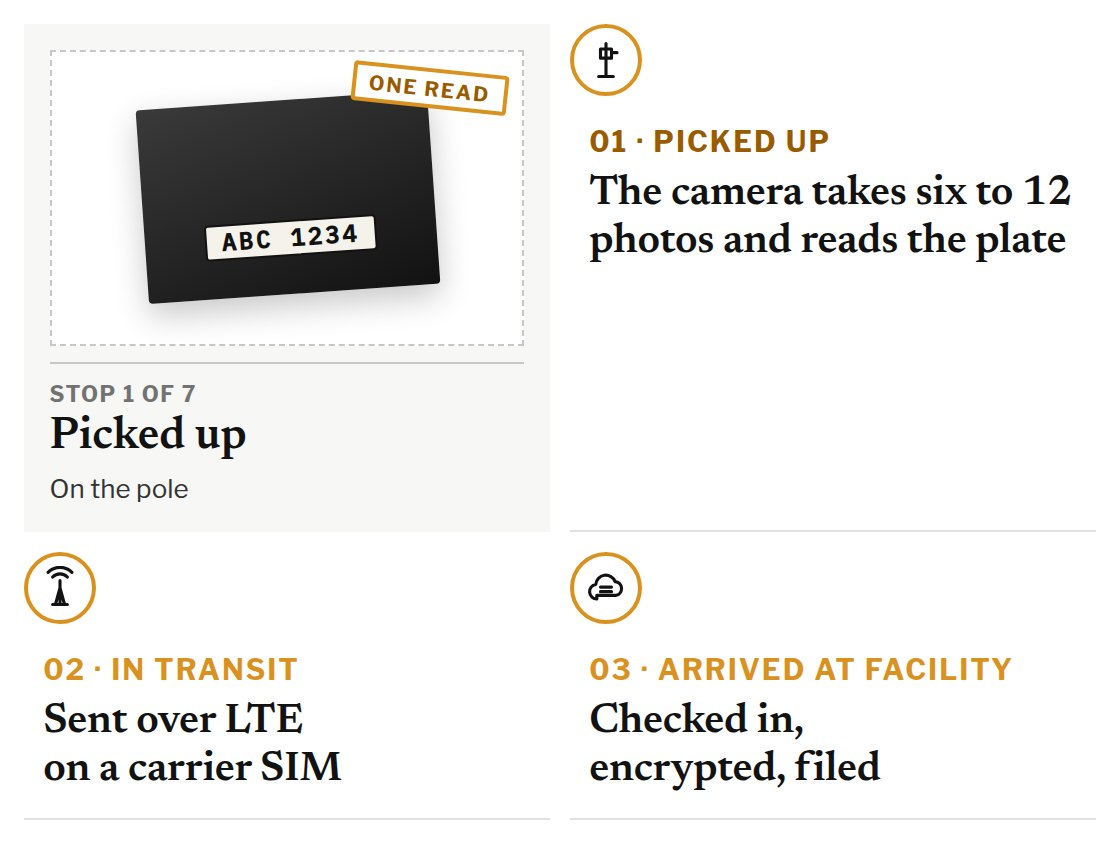
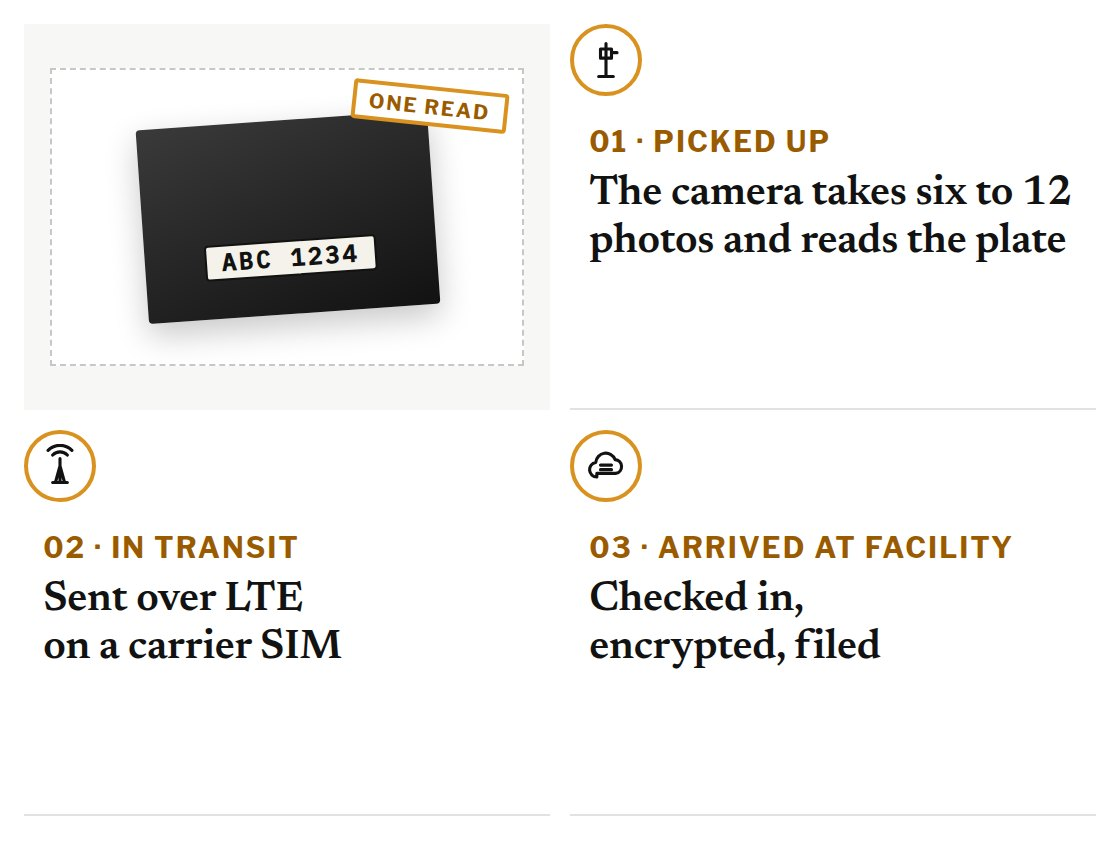
Story: third graphics review
Phone map sits wholly above the step cards: the map ends six-tenths of the way
down the screen, its legend sits just above the national map or in its own band
above a zoomed one, and nothing is drawn past the map's panel, on phones or on
desktop, where dots no longer run beside the credit. Zoomed on Georgia, the
other states turn grey and the state's label is boxed; Atlanta is a point with
its name to the side; city names fade out before Georgia's fades in; the legend
and the credit's population line change halfway through a transition. The hatch
key is grey and says why small counties are hatched; the credit counts the Flock
cameras outside the frame.

Phone journey teaser has its own image, four stops in large type; the desktop
teaser's parcel card no longer repeats stop 1. The completeness chart keeps
state names on phones and puts its counts on two lines where one would run past
the plot. Place names follow Times style (Houston, Dallas and Denver alone;
"Tex."), the floating Top button is left to wider screens, "Washington State",
"Home Depot" in running text, and the ruler's default reads "since Aug. 13".

Changed region(s): [[0.0, 0.247, 0.4688, 0.9264], [0.0312, 0.4941, 0.9688, 0.9881], [0.125, 0.0618, 0.4688, 0.1544]]

diff --git a/src/story/map.ts b/src/story/map.ts
@@ -31,12 +31,18 @@ export const RATE_COLORS = ["#dcab55", "#c4851a", "#9e6510", "#6f4508", "#3f2504
 /** Counties with fewer residents than this are hatched. */
 export const SMALL_POP = 10_000;
 const NONE = "#ecece9";
-/** Reserved at the top of the phone graphic for the legend, so the map below it never moves between steps */
-const PHONE_LEGEND = 84;
+/** Reserved at the top of the phone graphic for the legend on the zoomed steps, so it never sits on the map */
+const PHONE_LEGEND = 96;
+/** On phones the map ends this far up the screen (a share of its height), above where the step cards are read */
+const PHONE_MAP_BOTTOM = 0.6;
 interface Place { name: string; kind: string; xy: [number, number]; sub?: string }
 interface Labels { cities: { name: string; xy: [number, number] }[]; atlanta: { bbox: [number, number, number, number]; places: Place[]; roads: { name: string; xy: [number, number] }[] }; georgia: { bbox: [number, number, number, number]; xy: [number, number]; name: string; sub: string } }
 
 const INK = [18, 18, 18], AMBER = [196, 125, 14], GREY = [189, 189, 186], GREY_TOP = [128, 128, 125], GREY_STREET = [74, 74, 72];
+const rgbOf = (hex: string) => [1, 3, 5].map((i) => parseInt(hex.slice(i, i + 2), 16));
+/** The grey of the same lightness (Rec. 601 luma) */
+const grayOf = (hex: string) => { const [r, g, b] = rgbOf(hex); const v = Math.round(0.299 * r! + 0.587 * g! + 0.114 * b!).toString(16).padStart(2, "0"); return `#${v}${v}${v}`; };
+const mixHex = (a: string, b: string, t: number) => mix(rgbOf(a), rgbOf(b), t);
 const mix = (a: number[], b: number[], t: number) => `rgb(${a.map((v, i) => Math.round(v + (b[i]! - v) * t)).join(",")})`;
 const ease = (t: number) => (t < 0.5 ? 4 * t * t * t : 1 - (-2 * t + 2) ** 3 / 2);
 const clamp01 = (v: number) => Math.max(0, Math.min(1, v));
@@ -86,7 +92,7 @@ export function createMap(fig: HTMLElement, hooks: { busy(d: number): void; twee
   /** Alaska and Hawaii's insets, faded out once the view leaves the whole country */
   let insets: [number, number, number, number][] = [];
   /** county shading: one path per rate class; the small-population counties; county lines for the zoomed views */
-  let choro: { color: string; p: Path2D }[] | null = null, small: Path2D | null = null, countyLines: Path2D | null = null;
+  let choro: { color: string; gray: string; p: Path2D }[] | null = null, small: Path2D | null = null, countyLines: Path2D | null = null;
   let hatch: CanvasPattern | null = null, hatchDpr = 0;
   /** the top of Fulton County's outline, where its label's leader points */
   let fultonTip: [number, number] | null = null;
@@ -101,8 +107,8 @@ export function createMap(fig: HTMLElement, hooks: { busy(d: number): void; twee
   let creditH = 0;
   const area = () => {
     if (posterMode) return { x0: 24, y0: 24, x1: W - 24, y1: H - 24 };
-    // on phones the map sits in the upper four-fifths, so a card being read covers little of it
-    if (phone()) return { x0: 8, y0: PHONE_LEGEND, x1: W - 8, y1: Math.max(PHONE_LEGEND + 220, Math.min(H - creditH - 12, H * 0.8)) };
+    // on phones the map sits between the legend and the cards' reading zone, so a card being read covers none of it
+    if (phone()) return { x0: 8, y0: PHONE_LEGEND, x1: W - 8, y1: Math.max(PHONE_LEGEND + 220, H - (1 - PHONE_MAP_BOTTOM) * innerHeight) };
     const gutter = 20, left = Math.max(gutter, (W - 992) / 2) + Math.min(352, W - 2 * gutter) + 28;
     return { x0: Math.min(left, W * 0.42), y0: 76, x1: W - 24, y1: H - Math.max(24, creditH + 14) };
   };
@@ -138,13 +144,15 @@ export function createMap(fig: HTMLElement, hooks: { busy(d: number): void; twee
     const ox = (a.x0 + a.x1) / 2 - s.cx * k, oy = (a.y0 + a.y1) / 2 - s.cy * k;
     ctx.setTransform(1, 0, 0, 1, 0, 0);
     ctx.clearRect(0, 0, canvas.width, canvas.height);
-    // clip to the map's panel (a little wider on phones, where nothing sits beside it)
+    // clip to the map's panel, so nothing runs under the legend, the credit or the cards
     ctx.save();
-    ctx.beginPath(); ctx.rect(dpr * (a.x0 - (phone() ? 8 : 6)), dpr * (a.y0 - 30), dpr * (a.x1 - a.x0 + (phone() ? 16 : 30)), dpr * (a.y1 - a.y0 + 54)); ctx.clip();
+    ctx.beginPath(); ctx.rect(dpr * (a.x0 - 1), dpr * (a.y0 - 1), dpr * (a.x1 - a.x0 + 2), dpr * (a.y1 - a.y0 + 2)); ctx.clip();
     ctx.setTransform(dpr * k, 0, 0, dpr * k, dpr * ox, dpr * oy);
     if (choro && s.choro > 0.01) {
       ctx.globalAlpha = s.choro;
-      for (const c of choro) { ctx.fillStyle = c.color; ctx.fill(c.p); }
+      // zoomed on Georgia, the other states turn grey (same lightness), so only Georgia carries the colour key
+      for (const c of choro) { ctx.fillStyle = s.ga > 0.01 ? mixHex(c.color, c.gray, s.ga) : c.color; ctx.fill(c.p); }
+      if (georgia && s.ga > 0.01) { ctx.save(); ctx.clip(georgia); for (const c of choro) { ctx.fillStyle = c.color; ctx.fill(c.p); } ctx.restore(); }
       // zoomed in, thin white county lines keep neighbouring counties of one class apart
       const zoomed = clamp01((700 - s.w) / 400);
       if (countyLines && zoomed > 0) { ctx.globalAlpha = s.choro * zoomed; ctx.strokeStyle = "#ffffff"; ctx.lineWidth = 0.7 / k; ctx.stroke(countyLines); }
@@ -229,7 +237,8 @@ export function createMap(fig: HTMLElement, hooks: { busy(d: number): void; twee
     };
     for (const c of labels.cities) mk(c.name, "small", c.xy, "cities");
     // the county's name and counts go in a box above it, with a leader into the county
-    for (const p of labels.atlanta.places) mk(p.name, p.kind === "city" ? "city" : "area callout", p.xy, "atl", p.sub);
+    // Atlanta: a point at the city, the name to its left, clear of Fulton County's eastern line
+    for (const p of labels.atlanta.places) mk(p.name, p.kind === "city" ? "city pt-left" : "area callout", p.xy, "atl", p.sub);
     for (const r of labels.atlanta.roads) mk(r.name, "road", r.xy, "atl");
     mk(labels.georgia.name, "state", labels.georgia.xy, "ga", labels.georgia.sub);
   }
@@ -239,7 +248,8 @@ export function createMap(fig: HTMLElement, hooks: { busy(d: number): void; twee
     let lead = "";
     for (const l of labelEls) {
       let [x, y] = project(s, l.xy[0], l.xy[1]);
-      const o = l.group === "atl" ? atl * s.roads : l.group === "ga" ? s.ga : (1 - Math.max(atl, s.ga)) * (1 - s.choro * 0.35);
+      // the national names leave in the first part of a zoom; Georgia's name arrives in the last
+      const o = l.group === "atl" ? atl * s.roads : l.group === "ga" ? clamp01((s.ga - 0.6) / 0.4) : clamp01(1 - 2.5 * Math.max(atl, s.ga)) * (1 - s.choro * 0.35);
       if (l.callout && fultonTip) {
         // the box's bottom edge sits a little above the county's northern edge; the leader runs into the county
         const [tx, ty] = project(s, fultonTip[0], fultonTip[1]);
@@ -261,7 +271,7 @@ export function createMap(fig: HTMLElement, hooks: { busy(d: number): void; twee
   function setLegend(look: Look): void {
     if (look.choro) {
       const names = ["None", "Under 10", "10–25", "25–50", "50–100", "100+"];
-      legend.innerHTML = `<div class="legend-ramp"><span class="legend-t">Mapped Flock cameras per 100,000 residents</span><div class="ramp">${[NONE, ...RATE_COLORS].map((c, i) => `<span><i style="background:${c}"></i>${names[i]}</span>`).join("")}</div><span class="legend-hatch"><i style="background-color:${RATE_COLORS[2]}"></i>Hatched: fewer than ${SMALL_POP.toLocaleString("en-US")} residents</span></div>`;
+      legend.innerHTML = `<div class="legend-ramp"><span class="legend-t">Mapped Flock cameras per 100,000 residents</span><div class="ramp">${[NONE, ...RATE_COLORS].map((c, i) => `<span><i style="background:${c}"></i>${names[i]}</span>`).join("")}</div><span class="legend-hatch"><i></i>Hatched: fewer than ${SMALL_POP.toLocaleString("en-US")} residents, where a few cameras swing the rate</span></div>`;
     } else if (look.hi) {
       legend.innerHTML = `<div class="legend-key"><span><i style="background:rgb(${AMBER})"></i>Flock Safety</span><span><i style="background:rgb(${look.roads ? GREY_STREET : GREY_TOP})"></i>Other makes</span></div>`;
     } else legend.innerHTML = `<div class="legend-key"><span><i style="background:rgb(${INK})"></i>One mapped plate reader</span></div>`;
@@ -273,8 +283,14 @@ export function createMap(fig: HTMLElement, hooks: { busy(d: number): void; twee
    *  bottom left, over the faded Gulf and Alabama rather than the state's northern counties. */
   function placeLegend(): void {
     if (!W) return;
-    if (phone()) { legend.style.left = legend.style.top = ""; return; }
     const a = area();
+    if (phone()) {
+      legend.style.left = "";
+      if (LOOKS[want]!.view !== "us") { legend.style.top = ""; return; }
+      const us = viewFor("us"), [, ly] = project({ cx: us[0], cy: us[1], w: us[2] }, 0, 0);
+      legend.style.top = `${Math.round(Math.max(6, ly - legend.offsetHeight - 4))}px`;
+      return;
+    }
     if (LOOKS[want]!.view === "ga") {
       legend.style.left = `${Math.round(a.x0)}px`;
       legend.style.top = `${Math.round(a.y1 - legend.offsetHeight - 8)}px`;
@@ -342,7 +358,7 @@ export function createMap(fig: HTMLElement, hooks: { busy(d: number): void; twee
         groups.set(cls, [...(groups.get(cls) ?? []), f.geometry]);
         if ((r?.[5] ?? 0) < SMALL_POP) smallGeoms.push(f.geometry);
       }
-      choro = [...groups.entries()].sort((a2, b) => a2[0] - b[0]).map(([cls, g]) => ({ color: cls === 0 ? NONE : RATE_COLORS[cls - 1]!, p: pathOf(g, true) }));
+      choro = [...groups.entries()].sort((a2, b) => a2[0] - b[0]).map(([cls, g]) => { const color = cls === 0 ? NONE : RATE_COLORS[cls - 1]!; return { color, gray: grayOf(color), p: pathOf(g, true) }; });
       small = pathOf(smallGeoms, true);
       countyLines = pathOf([mesh(t, obj, (a2, b) => a2 !== b)], false);
       draw();
@@ -355,12 +371,13 @@ export function createMap(fig: HTMLElement, hooks: { busy(d: number): void; twee
     want = step;
     if (step === "flock" || look.choro) void loadChoro();
     if (look.view !== "us" || look.roads) void loadRoads();
-    setLegend(look);
-    credit?.classList.toggle("no-rates", !look.rates);
+    // the legend and the credit's population line change when the new look takes over, halfway through
+    let keyed = false;
+    const key = () => { if (keyed) return; keyed = true; setLegend(look); credit?.classList.toggle("no-rates", !look.rates); };
     const to = viewFor(look.view), from: View = [s.cx, s.cy, s.w];
     const start = { hi: s.hi, choro: s.choro, roads: s.roads, dots: s.dots, ga: s.ga };
     cancelAnimationFrame(anim);
-    const finish = () => { s.cx = to[0]; s.cy = to[1]; s.w = to[2]; Object.assign(s, { hi: look.hi, choro: look.choro, roads: look.roads, dots: look.dots, ga: look.ga }); draw(); };
+    const finish = () => { key(); s.cx = to[0]; s.cy = to[1]; s.w = to[2]; Object.assign(s, { hi: look.hi, choro: look.choro, roads: look.roads, dots: look.dots, ga: look.ga }); draw(); };
     if (reduced() || !cams) { if (anim) { anim = 0; finishing = null; hooks.tween(-1); } finish(); return; }
     const zi = interpolateZoom(from, to);
     const moves = Math.abs(from[2] - to[2]) > 1 || Math.hypot(from[0] - to[0], from[1] - to[1]) > 1;
@@ -378,6 +395,7 @@ export function createMap(fig: HTMLElement, hooks: { busy(d: number): void; twee
       s.choro = start.choro + (look.choro - start.choro) * (look.choro > start.choro ? late(e, 0.35) : e);
       s.dots = start.dots + (look.dots - start.dots) * (look.dots > start.dots ? late(e, 0.45) : e);
       s.ga = start.ga + (look.ga - start.ga) * e;
+      if (e >= 0.5) key();
       draw();
       if (t < 1) anim = requestAnimationFrame(frame); else { anim = 0; finishing = null; finish(); hooks.tween(-1); }
     };

diff --git a/src/story/fig/methods.ts b/src/story/fig/methods.ts
@@ -1,5 +1,5 @@
 /** How complete the map is: mapped Flock cameras inside city limits against the counts cities or reporting published. */
-import { apState, int } from "../../viz/format.ts";
+import { placeName, int } from "../../viz/format.ts";
 import { circle, g, line, rect, svg, text, label, tip, logScale, textWidth } from "../../viz/svg.ts";
 import { frame, dataTable, type Ctx } from "../frame.ts";
 import type { FigureCfg } from "../schema.ts";
@@ -8,7 +8,7 @@ import type { CompletenessRow } from "../types.ts";
 export function completenessFigure(cfg: FigureCfg, ctx: Ctx, rows: CompletenessRow[]): string {
   const list = rows.slice().sort((a, b) => b.published - a.published);
   const draw = (W: number, narrow: boolean) => {
-    const L = narrow ? 92 : 132, R = narrow ? 12 : 24, T = narrow ? 56 : 44, rowH = narrow ? 30 : 28;
+    const L = narrow ? 108 : 132, R = narrow ? 8 : 24, T = narrow ? 56 : 44, rowH = narrow ? 32 : 28;
     const x = logScale(20, 5000, L + 8, W - R);
     const ticks = [20, 50, 100, 200, 500, 1000, 2000, 5000];
     let out = g(ticks.map((t) => line(x(t), T - 6, x(t), T + list.length * rowH)).join(""), { class: "grid" });
@@ -22,22 +22,26 @@ export function completenessFigure(cfg: FigureCfg, ctx: Ctx, rows: CompletenessR
       const y = T + i * rowH + rowH / 2;
       const a = x(r.published), b = x(r.mapped);
       out += tip(rect(0, y - rowH / 2, W, rowH, { fill: "transparent" })
-        + text(L - 6, y + 4, `${r.place}${narrow ? "" : `, ${apState(r.usps)}`}`, { "text-anchor": "end", "font-size": 12.5, fill: "var(--ink-2)" })
+        + text(L - 6, y + 4, placeName(r.place, r.usps), { "text-anchor": "end", "font-size": narrow ? 12 : 12.5, fill: "var(--ink-2)" })
         + line(Math.min(a, b), y, Math.max(a, b), y, { stroke: "var(--rule-2)", "stroke-width": 2 })
         + circle(a, y, 5, { fill: "#fff", stroke: "var(--ink)", "stroke-width": 2 })
         + circle(b, y, 5, { class: "mark c-hi", stroke: "#fff", "stroke-width": 1.5 })
         + (() => {
-          // each count beside its own dot, outside the pair; where one side has no room, both go on the other
+          // each count beside its own dot, outside the pair; where one side has no room, both go on the other, on one
+          // line if it fits and on two if not, so no label runs past the plot
           const lo = Math.min(a, b), hi = Math.max(a, b), loT = r.mapped < r.published ? `${int(r.mapped)} mapped` : `${int(r.published)} published`, hiT = r.mapped < r.published ? `${int(r.published)} published` : `${int(r.mapped)} mapped`;
-          const fs = 12, leftOk = lo - 9 - textWidth(loT, fs) > L + 2, rightOk = hi + 9 + textWidth(hiT, fs) < W - 2;
-          if (leftOk && rightOk) return label(lo - 9, y + 4, loT, { "font-size": fs, fill: "var(--ink-2)", "text-anchor": "end" }) + label(hi + 9, y + 4, hiT, { "font-size": fs, fill: "var(--ink-2)" });
-          const both = `${loT} · ${hiT}`;
-          return rightOk || !leftOk ? label(hi + 9, y + 4, both, { "font-size": fs, fill: "var(--ink-2)" }) : label(lo - 9, y + 4, both, { "font-size": fs, fill: "var(--ink-2)", "text-anchor": "end" });
+          const fs = 12, st = { "font-size": fs, fill: "var(--ink-2)" }, both = `${loT} · ${hiT}`;
+          const leftFits = (t: string) => lo - 9 - textWidth(t, fs) > L + 2, rightFits = (t: string) => hi + 9 + textWidth(t, fs) < W - 2;
+          if (leftFits(loT) && rightFits(hiT)) return label(lo - 9, y + 4, loT, { ...st, "text-anchor": "end" }) + label(hi + 9, y + 4, hiT, st);
+          if (rightFits(both)) return label(hi + 9, y + 4, both, st);
+          if (leftFits(both)) return label(lo - 9, y + 4, both, { ...st, "text-anchor": "end" });
+          const right = rightFits(loT) && rightFits(hiT);
+          return [hiT, loT].map((t, k) => label(right ? hi + 9 : lo - 9, y - 2 + k * 13, t, right ? st : { ...st, "text-anchor": "end" })).join("");
         })(),
         `${int(r.mapped)} mapped, ${int(r.published)} published`, `${r.place}: published ${r.when}, ${r.what}`);
     });
     return svg(W, T + list.length * rowH + 4, out, { cls: narrow ? "v-narrow" : "v-wide", label: "Dot chart comparing mapped Flock cameras inside eight cities with the counts the cities or their reporting published." });
   };
-  const table = dataTable(["City", "Mapped", "Tagged to the city’s police", "Tagged to another operator", "No operator tagged", "Published", "Published count"], list.map((r) => [`${r.place}, ${apState(r.usps)}`, r.mapped, r.police, r.other, r.untagged, r.published, `${r.what} (${r.when})${r.topOther && r.topOther.count >= 20 ? `; largest other operator mapped: ${r.topOther.name}, ${int(r.topOther.count)}` : ""}`]), { text: [6] });
+  const table = dataTable(["City", "Mapped", "Tagged to the city’s police", "Tagged to another operator", "No operator tagged", "Published", "Published count"], list.map((r) => [placeName(r.place, r.usps), r.mapped, r.police, r.other, r.untagged, r.published, `${r.what} (${r.when})${r.topOther && r.topOther.count >= 20 ? `; largest other operator mapped: ${r.topOther.name}, ${int(r.topOther.count)}` : ""}`]), { text: [6] });
   return frame("completeness", cfg, ctx, draw(600, false) + draw(360, true), { table });
 }

diff --git a/src/story/render.ts b/src/story/render.ts
@@ -55,10 +55,10 @@ export function renderStory(inp: StoryInput & { deputy: Deputy; timelineRule: st
       default: throw new Error(`story: unknown figure ${id}`);
     }
   };
-  // one 4:3 image per preview, whole tiles with no small print, so it reads at every width
+  // 4:3 images of whole tiles with no small print; the journey has its own phone image with larger type
   const preview = (k: "components" | "journey") => k === "components"
     ? `<a class="preview" href="components/" id="preview"><img id="preview-img" src="img/knolling.jpg" alt="Six of the camera’s fourteen components, each rendered on its own tile: the front bezel, the infrared illuminator board, the infrared-cut filter, the camera module, the system on module and the GPS antenna" loading="lazy" decoding="async" width="1120" height="840"><span class="cap"><span class="kicker">Inside the camera</span><span class="t">Fourteen components in five groups, from the bezel to the clamps</span><span class="go">See the components</span></span></a>`
-    : `<a class="preview" href="journey/" id="preview-journey"><img id="preview-journey-img" src="img/journey.jpg" alt="One photograph tracked like a parcel: a slip reading stop 1 of 7, picked up on the pole, beside the first three stops, the pole, the carrier network and Amazon’s cloud" loading="lazy" decoding="async" width="1120" height="840"><span class="cap"><span class="kicker">The journey</span><span class="t">One photograph followed through seven stops, from the pole to deletion</span><span class="go">Follow the picture</span></span></a>`;
+    : `<a class="preview" href="journey/" id="preview-journey"><picture><source media="(max-width: 640px)" srcset="img/journey-phone.jpg" width="1120" height="840"><img id="preview-journey-img" src="img/journey.jpg" alt="The first stops of one photograph’s journey, tracked like a parcel: picked up on the pole, in transit on the carrier network, arrived at Amazon’s cloud" loading="lazy" decoding="async" width="1120" height="840"></picture><span class="cap"><span class="kicker">The journey</span><span class="t">One photograph followed through seven stops, from the pole to deletion</span><span class="go">Follow the picture</span></span></a>`;
   const cards = () => `<div id="summary-cards" class="summary">${PAGES.map((pg, i) => {
     const sec = inp.overview.sections.find((x) => x.id === pg.section);
     return `<a class="summary-card" href="${pg.id}/"><span class="n">${String(i + 1).padStart(2, "0")}</span><span class="t">${escape(sec?.title ?? pg.label)}</span><span class="b">${escape(sec?.blurb ?? "")}</span><span class="go">${escape(pg.label)} →</span></a>`;
@@ -101,9 +101,9 @@ function mapSection(inp: StoryInput & { poster?: string }, ctx: Ctx): string {
   // Without JavaScript the poster stands in for the map; with it, the alt text holds the space until the dots draw.
   const poster = `<p class="map-fallback">${escape(m.alt)}</p>${inp.poster ? `<noscript><img class="map-poster" src="${escape(inp.poster)}" alt="${escape(m.alt)}" width="1600" height="992"></noscript>` : ""}`;
   // The credit sits inside the sticky graphic, so it is on screen with every step of the map.
-  const off = Number(inp.meta.cameras.offMap);
+  const off = Number(inp.meta.cameras.offMap), offFlock = Number(inp.meta.cameras.offMapFlock);
   // the population line shows only on the steps that use population (the script hides it on the others)
-  const credit = `<p class="map-credit">Map: license plate readers on OpenStreetMap as of ${escape(apDate(String(inp.stats.snapshot!.value)))}, via DeFlock. Alaska and Hawaii are shown at different scales; ${escape(int(off))} readers outside the frame, most of them in Puerto Rico, are not shown.<span class="cr-rates"> Rates: U.S. Census Bureau 2024 population estimates.</span></p>`;
+  const credit = `<p class="map-credit">Map: license plate readers on OpenStreetMap as of ${escape(apDate(String(inp.stats.snapshot!.value)))}, via DeFlock. Alaska and Hawaii are shown at different scales; ${escape(int(off))} readers outside the frame, ${escape(int(offFlock))} of them Flock’s, are not shown, most of them in Puerto Rico.<span class="cr-rates"> Rates: U.S. Census Bureau 2024 population estimates.</span></p>`;
   for (const id of ["deflock-tiles-2026", "census-pop-2024", "census-boundaries-2024"]) ctx.used.add(id);
   return `<section class="scrolly scrolly-map" id="${escape(m.id)}" data-scrolly="map" aria-label="Map of mapped license plate readers">
 <div class="scrolly-graphic"><figure class="map" role="img" aria-label="${escape(m.alt)}">${poster}<canvas class="map-canvas" hidden></canvas><div class="map-labels" aria-hidden="true"></div><div class="map-legend" aria-hidden="true"></div></figure>${credit}</div>

diff --git a/src/story/story.css b/src/story/story.css
@@ -67,11 +67,14 @@
 .mlabel.area { font: 700 .75rem/1 var(--sans); letter-spacing: .06em; text-transform: uppercase; color: var(--ink-2); }
 .mlabel.city { font-weight: 700; }
 .mlabel small { display: block; margin-top: .2rem; font: 500 .6875rem/1.2 var(--sans); letter-spacing: 0; text-transform: none; color: var(--ink-2); text-align: center; }
-.mlabel.state { font: 700 .9375rem/1 var(--sans); letter-spacing: .1em; text-transform: uppercase; text-align: center; }
+.mlabel.state { font: 700 .9375rem/1 var(--sans); letter-spacing: .1em; text-transform: uppercase; text-align: center; padding: .35rem .5rem .4rem; background: #fff; border: 1px solid var(--rule-2); -webkit-text-stroke: 0; }
 .mlabel.state small { font-size: .75rem; letter-spacing: 0; }
 .mlabel.city small, .mlabel.area small { font-weight: 600; }
 .mlabel.callout { transform: translate(-50%, -100%); padding: .35rem .5rem .4rem; background: #fff; border: 1px solid var(--ink); -webkit-text-stroke: 0; text-align: center; }
 .mlabel.callout small { margin-top: .25rem; }
+/* a point at the place, its name to the left */
+.mlabel.pt-left { transform: translate(calc(-100% + 4px), -50%); }
+.mlabel.pt-left::after { content: ""; display: inline-block; width: 7px; height: 7px; border-radius: 50%; background: var(--ink); margin-left: .35rem; vertical-align: .05em; box-shadow: 0 0 0 2px #fff; }
 .mlabel.hq::before { content: ""; display: inline-block; width: 7px; height: 7px; border-radius: 50%; background: var(--ink); margin-right: .35rem; vertical-align: .05em; box-shadow: 0 0 0 2px #fff; }
 .legend-ramp { display: grid; gap: .3rem; }
 .legend-ramp .ramp { display: flex; gap: 2px; }
@@ -79,7 +82,7 @@
 .legend-ramp .ramp i { display: block; height: 10px; }
 .legend-hatch { display: inline-flex; align-items: center; gap: .4rem; margin-top: .1rem; font: 400 .6875rem/1.2 var(--sans); color: var(--ink-3); }
 /* the swatch draws the same white diagonal hatch the map does */
-.legend-hatch i { width: 22px; height: 10px; background-image: repeating-linear-gradient(-45deg, rgba(255, 255, 255, .95) 0 1.3px, transparent 1.3px 3.5px); }
+.legend-hatch i { flex: none; width: 22px; height: 10px; background-color: #9b9b98; background-image: repeating-linear-gradient(-45deg, rgba(255, 255, 255, .95) 0 1.3px, transparent 1.3px 3.5px); }
 @media (max-width: 760px) { .legend-ramp .ramp span { width: 52px; } .legend-ramp .legend-t { font-size: .75rem; } }
 /* zoomed on Georgia, the legend stands upright in the corner beside the state */
 .map-legend.is-vertical { max-width: 11.5rem; }
@@ -109,6 +112,7 @@
 
 /* ---- Previews of the Components and Journey pages ------------------------------------------------------------- */
 .preview { display: grid; width: var(--measure); margin: 2.5rem auto; gap: .7rem; color: var(--ink); text-decoration: none; }
+.preview picture { display: block; }
 .preview img { width: 100%; height: auto; aspect-ratio: 4 / 3; object-fit: cover; display: block; background: var(--bg-2); }
 /* in Go deeper, the preview sits beside its caption, as wide as the cards under it */
 .chapter-cards .preview { width: min(var(--wide), 100% - 2 * var(--gutter)); grid-template-columns: minmax(0, 1fr) minmax(0, 1fr); align-items: center; gap: 1.75rem; margin: 0 auto 2rem; }

diff --git a/src/viz/format.ts b/src/viz/format.ts
@@ -58,6 +58,10 @@ export function apPeriod(p: string): string {
 /** Typographic apostrophes and quotes for text that comes from data files. */
 export const smart = (s: string): string => s.replace(/(\w)'(\w)/g, "$1’$2").replace(/'(\d0s)/g, "’$1").replace(/(^|[\s(])"/g, "$1“").replace(/"/g, "”").replace(/(^|[\s(])'/g, "$1‘").replace(/'/g, "’");
 
-/** State names to the AP abbreviations used in datelines and labels ("Ga.", "Calif."); D.C. and short names stay. */
-const AP_STATE: Record<string, string> = { AL: "Ala.", AZ: "Ariz.", AR: "Ark.", CA: "Calif.", CO: "Colo.", CT: "Conn.", DE: "Del.", DC: "D.C.", FL: "Fla.", GA: "Ga.", IL: "Ill.", IN: "Ind.", KS: "Kan.", KY: "Ky.", LA: "La.", MD: "Md.", MA: "Mass.", MI: "Mich.", MN: "Minn.", MS: "Miss.", MO: "Mo.", MT: "Mont.", NE: "Neb.", NV: "Nev.", NH: "N.H.", NJ: "N.J.", NM: "N.M.", NY: "N.Y.", NC: "N.C.", ND: "N.D.", OK: "Okla.", OR: "Ore.", PA: "Pa.", RI: "R.I.", SC: "S.C.", SD: "S.D.", TN: "Tenn.", VT: "Vt.", VA: "Va.", WA: "Wash.", WV: "W.Va.", WI: "Wis.", WY: "Wyo.", AK: "Alaska", HI: "Hawaii", ID: "Idaho", IA: "Iowa", ME: "Maine", OH: "Ohio", TX: "Texas", UT: "Utah", PR: "P.R." };
+/** State names to the Times abbreviations used after a place name ("Ga.", "Calif.", "Tex."); D.C. and short names stay. */
+const AP_STATE: Record<string, string> = { AL: "Ala.", AZ: "Ariz.", AR: "Ark.", CA: "Calif.", CO: "Colo.", CT: "Conn.", DE: "Del.", DC: "D.C.", FL: "Fla.", GA: "Ga.", IL: "Ill.", IN: "Ind.", KS: "Kan.", KY: "Ky.", LA: "La.", MD: "Md.", MA: "Mass.", MI: "Mich.", MN: "Minn.", MS: "Miss.", MO: "Mo.", MT: "Mont.", NE: "Neb.", NV: "Nev.", NH: "N.H.", NJ: "N.J.", NM: "N.M.", NY: "N.Y.", NC: "N.C.", ND: "N.D.", OK: "Okla.", OR: "Ore.", PA: "Pa.", RI: "R.I.", SC: "S.C.", SD: "S.D.", TN: "Tenn.", VT: "Vt.", VA: "Va.", WA: "Wash.", WV: "W.Va.", WI: "Wis.", WY: "Wyo.", AK: "Alaska", HI: "Hawaii", ID: "Idaho", IA: "Iowa", ME: "Me.", OH: "Ohio", TX: "Tex.", UT: "Utah", PR: "P.R." };
 export const apState = (usps: string): string => AP_STATE[usps] ?? usps;
+/** Cities the Times names without a state */
+const STANDALONE = new Set(["Atlanta", "Baltimore", "Boston", "Chicago", "Cincinnati", "Cleveland", "Dallas", "Denver", "Detroit", "Honolulu", "Houston", "Indianapolis", "Las Vegas", "Los Angeles", "Miami", "Milwaukee", "Minneapolis", "New Orleans", "New York", "Oklahoma City", "Philadelphia", "Phoenix", "Pittsburgh", "St. Louis", "Salt Lake City", "San Antonio", "San Diego", "San Francisco", "Seattle"]);
+/** A city as the Times names it: "Houston", but "Oakland, Calif." */
+export const placeName = (city: string, usps: string): string => (STANDALONE.has(city) ? city : `${city}, ${apState(usps)}`);

diff --git a/src/ui/figs.ts b/src/ui/figs.ts
@@ -6,7 +6,7 @@
 import { sources } from "../content";
 import { ROOT } from "../lib/base";
 import { escape } from "../lib/escape";
-import { apState, int } from "../viz/format";
+import { int, placeName } from "../viz/format";
 import { g, line, rect, svg, text, label, hbar, tip, linScale, niceTicks } from "../viz/svg";
 import { frame, type Ctx } from "../story/frame";
 import type { FigureCfg } from "../story/schema";
@@ -29,7 +29,7 @@ export function citiesFigure(rows: City[], snapshot: string, width: number): str
   out += g(ticks.map((t) => text(x(t), T - 9, int(t), { "text-anchor": "middle" })).join(""), { class: "axis" });
   list.forEach((c, i) => {
     const y = T + i * rowH, hi = i === 0;
-    out += tip(rect(0, y, W, rowH, { fill: "transparent" }) + text(L - 8, y + rowH / 2 + 4, `${c.name}, ${apState(c.usps)}`, { "text-anchor": "end", "font-size": 12.5, "font-weight": hi ? 700 : 400, fill: hi ? "var(--ink)" : "var(--ink-2)" }) + hbar(x(0), y + (rowH - barH) / 2, x(c.flock) - x(0), barH, 3, { class: `mark ${hi ? "c-hi" : "c-ctx"}` }) + label(x(c.flock) + 5, y + rowH / 2 + 4, int(c.flock), { "font-size": 12, "font-weight": hi ? 700 : 500, fill: "var(--ink)" }), `${int(c.flock)} mapped Flock cameras`, `${c.name}, ${apState(c.usps)}`);
+    out += tip(rect(0, y, W, rowH, { fill: "transparent" }) + text(L - 8, y + rowH / 2 + 4, placeName(c.name, c.usps), { "text-anchor": "end", "font-size": 12.5, "font-weight": hi ? 700 : 400, fill: hi ? "var(--ink)" : "var(--ink-2)" }) + hbar(x(0), y + (rowH - barH) / 2, x(c.flock) - x(0), barH, 3, { class: `mark ${hi ? "c-hi" : "c-ctx"}` }) + label(x(c.flock) + 5, y + rowH / 2 + 4, int(c.flock), { "font-size": 12, "font-weight": hi ? 700 : 500, fill: "var(--ink)" }), `${int(c.flock)} mapped Flock cameras`, placeName(c.name, c.usps));
   });
   out += line(x(0), T - 4, x(0), T + list.length * rowH, { class: "baseline" });
   const body = svg(W, T + list.length * rowH + 4, out, { label: `Bar chart of mapped Flock cameras inside city limits: ${list[0]!.name} has the most, ${int(max)}.` });

diff --git a/src/story/types.ts b/src/story/types.ts
@@ -9,7 +9,7 @@ export interface Operators { total: number; flock: number; branded: number; shar
 export interface CompletenessRow { place: string; usps: string; published: number; when: string; what: string; sources: string[]; mapped: number; police: number; other: number; untagged: number; topOther: { name: string; count: number } | null }
 export interface SourceRec { id: string; kind: string; title: string; publisher: string; url: string; date: string; lastVerified: string }
 export interface Ladder { id: string; agency: string; city: string; state: string; period: string; cameras: string; vendorMix?: boolean; vendor?: string; mixedWindows?: boolean; values: Record<"reads" | "alerts" | "falseAlerts" | "stops" | "recoveries" | "arrests", number | null>; note: string; sources: string[] }
-export interface Meta { snapshot: string; built: string; frame: [number, number]; cameras: { total: number; flock: number; onMap: number; offMap: number } }
+export interface Meta { snapshot: string; built: string; frame: [number, number]; cameras: { total: number; flock: number; onMap: number; offMap: number; offMapFlock: number } }
 export interface Overview { sections: { id: string; label: string; title: string; blurb: string }[] }
 export interface TimelineEvent { date: string; precision: "day" | "month"; kind: "added" | "ended" | "restricted" | "flock"; where: string; text: string; sources: string[] }
 

diff --git a/src/outcomes.ts b/src/outcomes.ts
@@ -8,7 +8,7 @@ import { cite, escape } from "./ui/cite";
 import { el, initTableWraps } from "./ui/common";
 import { BASE } from "./lib/base";
 import { svg, g, line, text, circle, tip, logScale, rect } from "./viz/svg";
-import { tickWords, apState, apDate, apPeriod } from "./viz/format";
+import { tickWords, apState, apDate, apPeriod, placeName } from "./viz/format";
 import { initTooltips } from "./viz/tooltip";
 import { drawNational, drawCity, DEPTH_LABEL, type Ring } from "./outcomes-map";
 
@@ -237,7 +237,7 @@ function ladderOverview(ladders: Data["ladders"], W: number): string {
   rows.forEach((L, i) => {
     const y = T + i * rowH + rowH / 2, hollow = !!(L.mixedWindows || L.vendorMix);
     out += line(0, y + rowH / 2, W, y + rowH / 2, { stroke: "var(--rule)" });
-    const who = /Sheriff/.test(L.agency) ? `${L.agency.replace(/ Sheriff.*$/, "")}, ${apState(L.state)}` : `${L.city}, ${apState(L.state)}`;
+    const who = /Sheriff/.test(L.agency) ? `${L.agency.replace(/ Sheriff.*$/, "")}, ${apState(L.state)}` : placeName(L.city, L.state);
     out += text(LW - 4, y - 2, who, { "text-anchor": "end", "font-size": 12, "font-weight": 600, fill: "var(--ink)" });
     out += text(LW - 4, y + 11, apPeriod(L.period.replace(/ \(.*\)/, "")), { "text-anchor": "end", "font-size": 10.5, fill: "var(--ink-3)" });
     LADDER_RUNGS.forEach((r, k) => {

diff --git a/src/document.css b/src/document.css
@@ -30,7 +30,8 @@ main { display: flex; flex-direction: column; gap: 3rem; width: min(var(--wide),
 .totop { position: fixed; right: 1.1rem; bottom: 1.1rem; z-index: 25; font: 600 .8125rem/1 var(--sans); color: var(--ink); background: #fff; border: 1px solid var(--rule-2); border-radius: 3px; padding: .6rem .8rem; text-decoration: none; box-shadow: 0 2px 8px rgba(0, 0, 0, .08); }
 .totop:hover { border-color: var(--ink); }
 /* on phones it is smaller and sits in the corner, clear of the text column */
-@media (max-width: 640px) { .totop { right: .5rem; bottom: .5rem; padding: .45rem .5rem; font-size: .75rem; opacity: .94; } }
+/* on phones it would sit on the text; the sticky header and the pager's Home link stand in for it */
+@media (max-width: 640px) { .totop { display: none !important; } }
 
 /* ---- Articles: Deployments, Claims, Economics, Sources ---------------------------------------------------------- */
 .sec > .article { width: min(46rem, 100%); }

diff --git a/src/story/fig/ruler.ts b/src/story/fig/ruler.ts
@@ -8,7 +8,7 @@ const S = 1, MIN = 60, HR = 3600, DAY = 86400, YR = 365 * DAY;
 interface Keep { days: number; title: string; sub?: string; hi?: boolean }
 const ALERT = { t0: 10, t1: 15, title: "Alert to officers", sub: "10 to 15 seconds on average" };
 const KEEP: Keep[] = [
-  { days: 7, title: "Flock’s default for new customers,", sub: "announced Aug. 13, 2026", hi: true },
+  { days: 7, title: "Flock’s default for new customers", sub: "since Aug. 13", hi: true },
   { days: 21, title: "Virginia and Washington limits" },
   { days: 30, title: "Flock’s earlier default;", sub: "existing customers keep their settings" },
   { days: 60, title: "California Highway Patrol limit" },

diff --git a/tests/story.spec.ts b/tests/story.spec.ts
@@ -68,7 +68,7 @@ test("the county search finds a county and moves its marker", async ({ page }) =
   await input.pressSequentially(`${most.name.replace(" County", "")} texas`);
   await expect(page.locator("#county-list li").first()).toContainText(most.name);
   await input.press("Enter");
-  await expect(page.locator(".lk-card .lk-name")).toHaveText(`${most.name}, Texas`);
+  await expect(page.locator(".lk-card .lk-name")).toHaveText(`${most.name}, Tex.`);
   await expect(page.locator(".lk-card .lk-big .n")).toHaveText(most.flock.toLocaleString("en-US"));
   expect(await page.locator(".lk-mark").first().getAttribute("transform")).not.toBe(before);
 });

diff --git a/docs/fact-check.md b/docs/fact-check.md
@@ -20,7 +20,7 @@ In reading order. "Computed" means produced by `scripts/story/build.mjs` from th
 | Flock says its cameras make more than 20 billion scans a month | 20 billion | `nbc-flock-2025` | quotes Flock's website ("over 20 billion scans a month") |
 | Flock is an Atlanta company | | `wikipedia-flock` | infobox; The Texas Tribune also writes "Atlanta-based Flock Safety" (`texastribune-2026`) |
 | DeFlock is an anti-surveillance group that tracks the company's cameras | | `texastribune-2026` | "DeFlock, an anti-surveillance group monitoring the company"; EFF calls it an "anti-surveillance mapmaker" (`eff-deflock-2025`) |
-| Each dot is a mapped reader; 143,929 as of Oct. 8, 2026 | 143,929 | computed | `mappedTotal`; 143,595 are inside the map's frame and 334 outside it, 255 of those in Puerto Rico (`meta.json`, `states.json`), as the map credit says |
+| Each dot is a mapped reader; 143,929 as of Oct. 8, 2026 | 143,929 | computed | `mappedTotal`; 143,595 are inside the map's frame and 334 outside it, 183 of them Flock's and 255 in Puerto Rico (`meta.json`: `offMap`, `offMapFlock`; `states.json`), as the map credit says. The 188 Flock cameras outside the 50 states and D.C. are those 183 and five drawn on the map just across a border |
 | Flock made about four in five | 80 percent | computed | 115,437 / 143,929 |
 | The rest come from companies including Motorola Solutions, Genetec and Axis Communications | 7,509; 3,647; 2,445 | computed | the three largest other makes, `operators.json` |
 | Most common in the South, 41.3 for every 100,000 residents; least common in the Northeast, 11.6 | 41.3; 11.6 (Midwest 39.0, West 33.3) | computed | `regions`, Census regions |
@@ -56,7 +56,7 @@ In reading order. "Computed" means produced by `scripts/story/build.mjs` from th
 |---|---|---|---|
 | An operator is recorded for 16,500 mapped Flock cameras, 14 percent | 16,500; 14 percent | computed | `operatorsNamed` |
 | Of those, 62 percent police or sheriffs, 20 percent retailers and shopping centers | 10,222; 3,237 | computed | `operatorsPolice`, `operatorsRetail` |
-| Lowe's 1,767; The Home Depot 1,162 | | computed | `topOperators`, with spelling variants grouped (`canonical` in `data/story/operator-classes.json`) |
+| Lowe's 1,767; Home Depot 1,162 | | computed | `topOperators`, with spelling variants grouped (`canonical` in `data/story/operator-classes.json`) |
 | Shareholder proposals asked both to report on privacy risks; both boards recommended voting no | | `prospect-retail-2026` | |
 | The proposals won 8.9 percent of the votes cast at The Home Depot (May 21) and 9.1 percent at Lowe's (May 29) | 62,948,880 for, 645,876,261 against; 38,182,128 for, 380,809,009 against | `homedepot-8k-2026`; `lowes-8k-2026` | Form 8-K vote tables; percent of for plus against, the "votes cast" both proxies use; abstentions and broker non-votes excluded |
 
